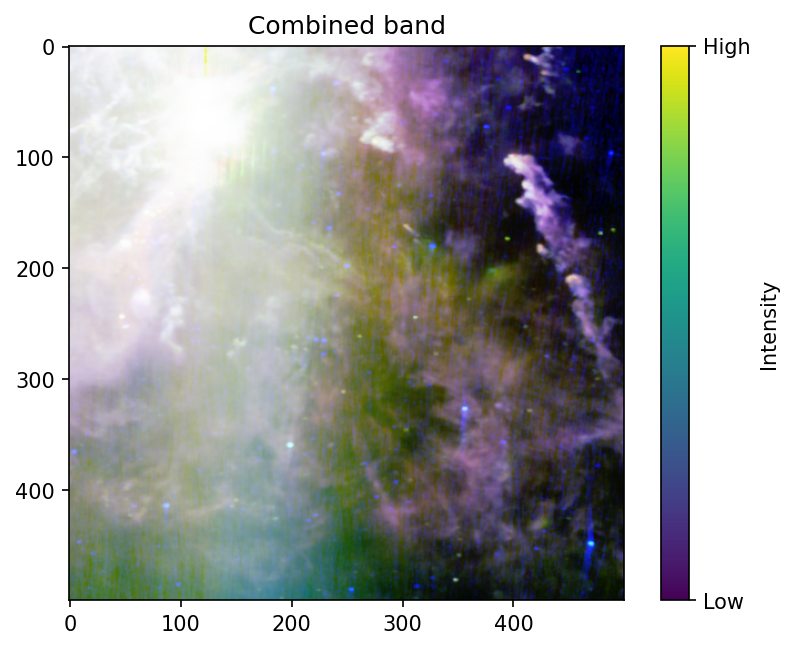
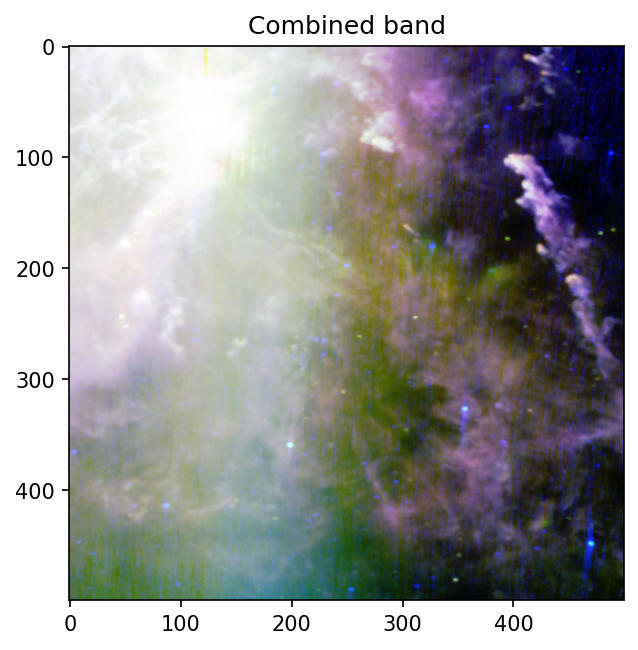
Final Commit

diff --git a/Assignment Number 3/Assignment3.py b/Assignment Number 3/Assignment3.py
@@ -16,13 +16,12 @@ def readfile(filename , cal) :
     data = []
     i = 0
     sum = 0
-    hist = {}
+    hist = {}       # Dictionary to store the values and count for histogram
     orion = np.zeros((size , size) , dtype = np.float64)
     with open(filename , 'r') as f :
         fdata = f.read()
     
     fdata = fdata.replace('"' , "").split("\n")
-    
     # So now we have entire file data in fdata. Now we split the file data at \n
     # fdata contains 500 rows with each row as a string consisting of 500 values
     for i in range(len(fdata) - 1) :
@@ -32,11 +31,12 @@ def readfile(filename , cal) :
             
             # To calculate the mean without using library
             sum = sum + orion[i][j]
+            # Creating dictionary element for histogram without using library
             if orion[i][j] in hist.keys() :
                 hist[orion[i][j]] += 1
             else :
                 hist[orion[i][j]] = 1
-    orion = np.flip(orion , axis = 0)  # Vertically  flip
+    orion = np.flip(orion , axis = 0)  # Vertically flip according to data characteristics
     if cal == True :
         return orion.reshape(((size * size) ,))  , orion.min() , orion.max() , hist , sum
     else :
@@ -48,7 +48,6 @@ def readfile(filename , cal) :
 def mean_value(size , sum):
     return sum/(size*size)
 
-
 ################################################################################################
 # Calculate Variance
 ################################################################################################
@@ -58,13 +57,12 @@ def variance_value(band , mean) :
               band_variance = band_variance + pow((band[i] - mean) , 2)
     return band_variance / (size * size)
 
-
 ################################################################################################
 # Profile Line
 ################################################################################################
 def profile_line(band):
     # Profile line through line which contains the maximum value
-    band = band.reshape(500,500)
+    band = band.reshape(size,size)
     # Getting the index of the row which has the maximum value
     pl = np.argmax(np.max(band, axis=1))
     fig1 = plt.figure(figsize= (10,5), dpi=100)
@@ -72,7 +70,7 @@ def profile_line(band):
     plt.xlabel("X")
     plt.ylabel("Values")
     plt.title("Profile line for maximum value of the data set ")
-    ax1.plot(band[pl] , label = 'Record {}'.format(pl))
+    ax1.plot(band[pl] , label = 'Record {}'.format(pl+1))
     ax1.legend(loc = 1)
     fig1.savefig('Profile_Line.png' , bbox_inches = "tight" , dpi = 150)
 
@@ -87,68 +85,51 @@ def histogram_line(hist) :
     plt.title("Histogram as a line graph")
     # Sorting the dictionary based on the Key values to represent the histogram as line plot(clear view)
     hist = OrderedDict(sorted(hist.items()))
-    # keys = np.array(np.fromiter(hist.keys() , dtype = float))
     keys = np.array(np.fromiter(hist.keys() , dtype = int))
-    # vals = np.array(np.fromiter(hist.values() , dtype = float))
     vals = np.array(np.fromiter(hist.values() , dtype = int))
     plt.plot(keys , vals)
     fig2.savefig('Histogram.png' , bbox_inches = "tight" , dpi = 150)
 
-
 ################################################################################################
-# Rescale between 0 to 255 using non linear transformation
+# Rescale between 0 to 255
 ################################################################################################
-def nonlinear_trans(band, min , max):
+def rescale(band, log_min , log_max):
     import matplotlib.patches as mpatches
-    
-    log_min = m.log(min) if min > 0 else 0
-    log_max = m.log(max) if max > 0 else 0
-    # 1D nonlinear array for storing non-linear data
-    # nonlinear_transf = np.zeros((len(band),))
-    nonlinear_transf = []
+    rescaled = []
     
     for i in range(len(band)):
         if band[i] > 0:
             log = m.log(band[i])
             if log > 0 :
-                # nonlinear_transf[i] = (log - log_min) / (log_max - log_min) * 255
                 val = (log - log_min) / (log_max - log_min) * 255
-                nonlinear_transf.append(val)
+                rescaled.append(val)
                 
-
     # Reshaping data to 500x500
-    nonlinear_transf = np.asarray(nonlinear_transf).reshape(500 , 500)
+    rescaled = np.asarray(rescaled).reshape(500 , 500)
     # nonlinear_transf = nonlinear_transf.reshape((500,500))
     fig4 = plt.figure( )
     ax4 = plt.axes()
     plt.title("Rescaled Image")
-    im4 = ax4.imshow(nonlinear_transf , cmap = 'gray' , label = ["Max" , "Min"])
+    im4 = ax4.imshow(rescaled , cmap = 'gray' , label = ["Max" , "Min"])
     ax4.set_aspect('equal')
-    # ax4.legend((nonlinear_transf.min(),nonlinear_transf.max()),("Min","Max"))
-    # cb4 = fig4.colorbar( mappable = im4 , orientation = 'vertical' , label = 'Intensity', ticks =
-    # [nonlinear_transf.min(),nonlinear_transf.max()])
-    # cb4.ax.set_yticklabels(['Low','High'])
-    # bbox_to_anchor = (1 , -0.05) ncol=2,
-    max_patch = mpatches.Patch(color = 'white' , label = 'Maximum Value {}'.format(nonlinear_transf.max()))
-    min_patch = mpatches.Patch(color = 'black' , label = 'Min Value {}'.format(nonlinear_transf.min()))
+    max_patch = mpatches.Patch(color = 'white' , label = 'Maximum Value {}'.format(rescaled.max()))
+    min_patch = mpatches.Patch(color = 'black' , label = 'Min Value {}'.format(rescaled.min()))
     plt.legend(handles = [max_patch, min_patch], bbox_to_anchor=(0.92, -0.05) , fancybox=True, shadow=True,
                facecolor="gray", fontsize='small',  ncol=2)
     fig4.savefig('Rescaled.png' , bbox_inches = "tight" , dpi = 150)
-
 
 ################################################################################################
 # Histogram Equalization
 ################################################################################################
 def hist_equalisation(band , hist , name):
-    # band_dimensions = [500, 500]
     hist = OrderedDict(sorted(hist.items()))
-    # r = np.fromiter(hist.keys() , dtype = float)
+    # Calculating data values
     r = list(np.fromiter(hist.keys() , dtype = float))
-    # p = np.fromiter(hist.values() , dtype = float)
+    # Calculating absolute occurance
     p = list(np.fromiter(hist.values() , dtype = float))
-    # pr = [val/(band_dimensions[0] * band_dimensions[1]) for val in p ]
+    # Calculating relative occurrence
     pr = [val / (size * size) for val in p]
-    # Calculating cdf
+    # Calculating Cumulative Density Function and final output cdf*255
     sum = 0
     cdf = []
     cdf255 = []
@@ -156,86 +137,53 @@ def hist_equalisation(band , hist , name):
         sum = sum + val
         cdf.append(sum)
         cdf255.append(sum*255)
-    # Calculating s = cdf*(L-1) here l is 500*500 = 250000
-    # cdf255 = np.asarray([val*255 for val in cdf])
-    # HistogramEqualied = np.zeros(((band_dimensions[0]*band_dimensions[0]),)
-    # for i in range(band_dimensions[0]) :
-    #     for j in range(band_dimensions[1]) :
-    #         # Finding the index of element in r
-    #         ItemIndex = np.where( r == band[i][j])
-    #         # Finding the equalized value in cdf255
-    #         HistogramEqualied[i][j] = cdf255[ItemIndex]
-    # HistogramEqualised = np.zeros(((500*500),))
-    HistogramEqualised = np.zeros(((500*500),), dtype = 'int')
-    # HistogramEqualised = np.zeros((500,500),dtype = 'int')
+    
+    HistogramEqualised = []
     for i in range(len(band)):
         # Find the index of element in r
         ItemIndex = r.index(band[i])
-        # ItemIndex = np.where( r == band[i])
-        HistogramEqualised[i] = round(cdf255[ItemIndex])
+        HistogramEqualised.append(int(round(cdf255[ItemIndex])))
 
+    HistogramEqualised = np.asarray(HistogramEqualised)
     HistogramEqualised = HistogramEqualised.reshape(500,500)
     fig5 = plt.figure()
     ax5 = plt.axes()
     plt.title("Histogram Equalised "+name)
+    plt.xlabel("X Values")
+    plt.ylabel("Y Values")
     im5 = ax5.imshow(HistogramEqualised , cmap = 'gray')
-    # plt.gca().invert_yaxis()
-    # x = [10 , 150 , 290 , 430]
-    # y = [60 , 180 , 300 , 380 , 420]
-    # xlabels = ['5h45m' , '5h30m' , '5h15m' , '5h00m']
-    # ylabels = ['-15:00' , '-12:00' , '-9:00' ,'-6:00']
-    # ylabels_minor = ['5h45m']
-    # ax5.set_xticks([10 , 150 , 290 , 430])
-    # ax5.set_yticks([60 , 180 , 300 , 420 ])
-    # ax5.set_yticks([380], minor = True)
-    # ax5.set_xticklabels(xlabels)
-    # ax5.set_yticklabels(ylabels)
-    # ax5.set_yticklabels(ylabels_minor , minor = True)
     plt.grid()
     ax5.set_aspect('equal')
-    cb5 = fig5.colorbar(mappable = im5 , orientation = 'vertical' , label = 'Intensity' , ticks =
+    cb5 = fig5.colorbar(mappable = im5 , orientation = 'vertical' , label = 'Emission Measurements' , ticks =
     [HistogramEqualised.min() , HistogramEqualised.max()])
-    cb5.ax.set_yticklabels(['Low' , 'High'])
+    cb5.ax.set_yticklabels(['Low({})'.format(HistogramEqualised.min()) , 'High({})'.format(HistogramEqualised.max())])
     fig5.savefig('Histogram {}.png'.format(name) , bbox_inches = "tight" , dpi = 150)
     return HistogramEqualised
-
 
 ################################################################################################
 # Combine Histogram for color image
 ################################################################################################
 def hist_combine(band_r , band_g , band_b):
-    # combine_data = np.zeros((500,500,3), dtype = 'int')
-    # for i in range(500):
-    #     for j in range(500):
-    #         red = int(round(band_r[i][j]))
-    #         green = int(round(band_g[i][j]))
-    #         blue = int(round(band_b[i][j]))
-    #         color = [red,green,blue]
-    #         combine_data[i][j] = color
-    
-    band_r = band_r.reshape(500*500,)
-    band_g = band_g.reshape(500*500,)
-    band_b = band_b.reshape(500*500,)
-    combine_data = np.zeros((500*500,3), dtype = 'int')
-    for i in range(500*500):
+    # Reshaping the bands for faster computations
+    band_r = band_r.reshape(size*size,)
+    band_g = band_g.reshape(size*size,)
+    band_b = band_b.reshape(size*size,)
+    combine_data = np.zeros((size*size,3), dtype = 'int')
+    for i in range(size*size):
         red = int(round(band_r[i]))
         green = int(round(band_g[i]))
         blue = int(round(band_b[i]))
         color = [red, green,blue]
         combine_data[i] = color
-    combine_data = combine_data.reshape((500,500,3))
+    combine_data = combine_data.reshape((size,size,3))
     
     fig6 = plt.figure()
     ax6 = plt.axes()
     plt.title("Combined band")
     im6 = ax6.imshow(combine_data)
     ax6.set_aspect('equal')
-    cb6 = fig6.colorbar(mappable = im6 , orientation = 'vertical' , label = 'Intensity' , ticks =
-    [combine_data.min() , combine_data.max()])
-    cb6.ax.set_yticklabels(['Low' , 'High'])
     fig6.savefig('Combined.png' , bbox_inches = "tight" , dpi = 150)
-    print("combined")
-    print(combine_data[2 :4 , 2 :4])
+    
 ################################################################################################
 size = 500
 # Reading the data set
@@ -251,32 +199,20 @@ print("The max value in band 2 is: ", band2.max())
 mean = mean_value(size,sum)
 print("The mean value in band 2 is: ", mean)
 print("The variance value in band 2 is: ", variance_value(band2, mean))
+
 ################################################################################################
 # Profile Line
 profile_line(band2)
 # Histogram
 histogram_line(hist2)
 # Linear Transformation
-nonlinear_trans(band2 , band2.min(), band2.max())
-# Histogram Equaliation
-equalised_band1 = hist_equalisation(band1 , hist1 , 'Band 1')
-equalised_band2 = hist_equalisation(band2 , hist2, 'Band 2')
-equalised_band3 = hist_equalisation(band3 , hist3, 'Band 3')
-equalised_band4 = hist_equalisation(band4 , hist4, 'Band 4')
+rescale(band2 , m.log(band2.min()) if band2.min() > 0 else 0, m.log(band2.max()) if band2.max() > 0 else 0 )
+# Histogram Equalization
+equalised_band1 = hist_equalisation(band1 , hist1, 'Band 1 (Wavelength 12 µm)')
+equalised_band2 = hist_equalisation(band2 , hist2, 'Band 2 (Wavelength 25 µm)')
+equalised_band3 = hist_equalisation(band3 , hist3, 'Band 3 (Wavelength 60 µm)')
+equalised_band4 = hist_equalisation(band4 , hist4, 'Band 4 (Wavelength 100 µm)')
 hist_combine(equalised_band4 , equalised_band3 , equalised_band1)
-
-print("band1")
-equalised_band1 = np.asarray(equalised_band1.reshape(500,500))
-equalised_band2 = np.asarray(equalised_band2.reshape(500,500))
-equalised_band3 = np.asarray(equalised_band3.reshape(500,500))
-equalised_band4 = np.asarray(equalised_band4.reshape(500,500))
-print(equalised_band1[2:4 , 2:4])
-print("band2")
-print(equalised_band2[2:4 , 2:4])
-print("band3")
-print(equalised_band3[2:4 , 2:4])
-print("band4")
-print(equalised_band4[2:4 , 2:4])
 
 plt.show()
 
